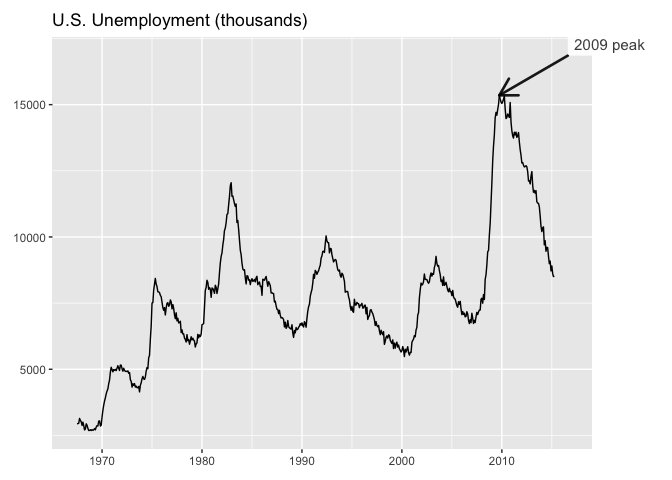
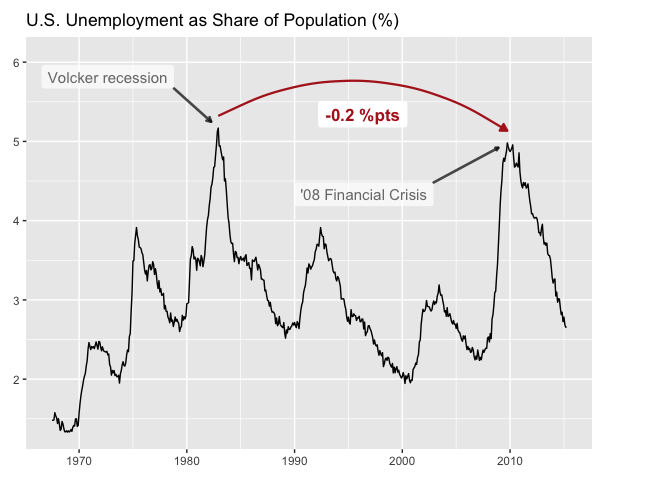
Deploying to gh-pages from @ lindsay-lintelman/ggmemo@5079489b1ca2f44ab56582e028c6d05d17bd900f 🚀

diff --git a/index.html b/index.html
@@ -114,25 +114,78 @@
 <code class="sourceCode R"><span><span class="kw"><a href="https://rdrr.io/r/base/library.html" class="external-link">library</a></span><span class="op">(</span><span class="va"><a href="https://ggplot2.tidyverse.org" class="external-link">ggplot2</a></span><span class="op">)</span></span>
 <span><span class="kw"><a href="https://rdrr.io/r/base/library.html" class="external-link">library</a></span><span class="op">(</span><span class="va"><a href="https://lindsay-lintelman.github.io/ggmemo/">ggmemo</a></span><span class="op">)</span></span>
 <span></span>
-<span><span class="fu"><a href="https://ggplot2.tidyverse.org/reference/ggplot.html" class="external-link">ggplot</a></span><span class="op">(</span><span class="va">economics</span>, <span class="fu"><a href="https://ggplot2.tidyverse.org/reference/aes.html" class="external-link">aes</a></span><span class="op">(</span>x <span class="op">=</span> <span class="va">date</span>, y <span class="op">=</span> <span class="va">unemploy</span><span class="op">)</span><span class="op">)</span> <span class="op">+</span></span>
+<span><span class="va">econ</span> <span class="op">&lt;-</span> <span class="va">economics</span></span>
+<span><span class="va">econ</span><span class="op">$</span><span class="va">unemp_rate</span> <span class="op">&lt;-</span> <span class="va">econ</span><span class="op">$</span><span class="va">unemploy</span> <span class="op">/</span> <span class="va">econ</span><span class="op">$</span><span class="va">pop</span> <span class="op">*</span> <span class="fl">100</span></span>
+<span></span>
+<span><span class="fu"><a href="https://ggplot2.tidyverse.org/reference/ggplot.html" class="external-link">ggplot</a></span><span class="op">(</span><span class="va">econ</span>, <span class="fu"><a href="https://ggplot2.tidyverse.org/reference/aes.html" class="external-link">aes</a></span><span class="op">(</span>x <span class="op">=</span> <span class="va">date</span>, y <span class="op">=</span> <span class="va">unemp_rate</span><span class="op">)</span><span class="op">)</span> <span class="op">+</span></span>
 <span>  <span class="fu"><a href="https://ggplot2.tidyverse.org/reference/geom_path.html" class="external-link">geom_line</a></span><span class="op">(</span><span class="op">)</span> <span class="op">+</span></span>
 <span>  <span class="fu"><a href="reference/annotate_callout.html">annotate_callout</a></span><span class="op">(</span></span>
-<span>    <span class="va">economics</span>,</span>
-<span>    where <span class="op">=</span> <span class="va">date</span> <span class="op">==</span> <span class="fu"><a href="https://rdrr.io/r/base/as.Date.html" class="external-link">as.Date</a></span><span class="op">(</span><span class="st">"2009-10-01"</span><span class="op">)</span>,</span>
-<span>    label <span class="op">=</span> <span class="st">"2009 peak"</span>,</span>
-<span>    position <span class="op">=</span> <span class="st">"top-left"</span>,</span>
-<span>    nudge <span class="op">=</span> <span class="fu"><a href="https://rdrr.io/r/base/c.html" class="external-link">c</a></span><span class="op">(</span><span class="op">-</span><span class="fl">2500</span>, <span class="fl">1500</span><span class="op">)</span></span>
+<span>    <span class="va">econ</span>,</span>
+<span>    where <span class="op">=</span> <span class="va">date</span> <span class="op">==</span> <span class="fu"><a href="https://rdrr.io/r/base/as.Date.html" class="external-link">as.Date</a></span><span class="op">(</span><span class="st">"1982-12-01"</span><span class="op">)</span>,</span>
+<span>    label <span class="op">=</span> <span class="st">"Volcker recession"</span>,</span>
+<span>    position <span class="op">=</span> <span class="st">"top-right"</span>,</span>
+<span>    nudge <span class="op">=</span> <span class="fu"><a href="https://rdrr.io/r/base/c.html" class="external-link">c</a></span><span class="op">(</span><span class="op">-</span><span class="fl">1500</span>, <span class="fl">0.5</span><span class="op">)</span>,</span>
+<span>    arrow_size <span class="op">=</span> <span class="fl">.05</span>,</span>
+<span>    point.padding <span class="op">=</span> <span class="fl">2</span>,</span>
+<span>    alpha <span class="op">=</span> <span class="fl">.7</span></span>
 <span>  <span class="op">)</span> <span class="op">+</span></span>
-<span>  <span class="fu"><a href="https://ggplot2.tidyverse.org/reference/coord_cartesian.html" class="external-link">coord_cartesian</a></span><span class="op">(</span>clip <span class="op">=</span> <span class="st">"off"</span><span class="op">)</span> <span class="op">+</span></span>
-<span>  <span class="fu"><a href="https://ggplot2.tidyverse.org/reference/labs.html" class="external-link">labs</a></span><span class="op">(</span>title <span class="op">=</span> <span class="st">"U.S. Unemployment (thousands)"</span>, x <span class="op">=</span> <span class="cn">NULL</span>, y <span class="op">=</span> <span class="cn">NULL</span><span class="op">)</span> <span class="op">+</span></span>
+<span>  <span class="fu"><a href="reference/annotate_callout.html">annotate_callout</a></span><span class="op">(</span></span>
+<span>    <span class="va">econ</span>,</span>
+<span>    where <span class="op">=</span> <span class="va">date</span> <span class="op">==</span> <span class="fu"><a href="https://rdrr.io/r/base/as.Date.html" class="external-link">as.Date</a></span><span class="op">(</span><span class="st">"2009-10-01"</span><span class="op">)</span>,</span>
+<span>    label <span class="op">=</span> <span class="st">"'08 Financial Crisis"</span>,</span>
+<span>    position <span class="op">=</span> <span class="st">"bottom-right"</span>,</span>
+<span>    nudge <span class="op">=</span> <span class="fu"><a href="https://rdrr.io/r/base/c.html" class="external-link">c</a></span><span class="op">(</span><span class="op">-</span><span class="fl">2500</span>, <span class="fl">0.5</span><span class="op">)</span>,</span>
+<span>    arrow_size <span class="op">=</span> <span class="fl">.03</span>,</span>
+<span>    point.padding <span class="op">=</span> <span class="fl">2</span>,</span>
+<span>    alpha <span class="op">=</span> <span class="fl">.7</span></span>
+<span>  <span class="op">)</span> <span class="op">+</span></span>
+<span>  <span class="fu"><a href="reference/annotate_change.html">annotate_change</a></span><span class="op">(</span></span>
+<span>    <span class="va">econ</span>,</span>
+<span>    from <span class="op">=</span> <span class="va">date</span> <span class="op">==</span> <span class="fu"><a href="https://rdrr.io/r/base/as.Date.html" class="external-link">as.Date</a></span><span class="op">(</span><span class="st">"1982-12-01"</span><span class="op">)</span>,</span>
+<span>    to <span class="op">=</span> <span class="va">date</span> <span class="op">==</span> <span class="fu"><a href="https://rdrr.io/r/base/as.Date.html" class="external-link">as.Date</a></span><span class="op">(</span><span class="st">"2009-10-01"</span><span class="op">)</span>,</span>
+<span>    value <span class="op">=</span> <span class="va">unemp_rate</span>,</span>
+<span>    arrow_size <span class="op">=</span> <span class="fl">.08</span>,</span>
+<span>    arrow_type <span class="op">=</span> <span class="st">"closed"</span>,</span>
+<span>    curvature <span class="op">=</span> <span class="op">-</span><span class="fl">.3</span>,</span>
+<span>    format <span class="op">=</span> <span class="st">"points"</span></span>
+<span>  <span class="op">)</span> <span class="op">+</span></span>
+<span>  <span class="fu"><a href="https://ggplot2.tidyverse.org/reference/scale_continuous.html" class="external-link">scale_y_continuous</a></span><span class="op">(</span>expand <span class="op">=</span> <span class="fu"><a href="https://ggplot2.tidyverse.org/reference/expansion.html" class="external-link">expansion</a></span><span class="op">(</span>mult <span class="op">=</span> <span class="fu"><a href="https://rdrr.io/r/base/c.html" class="external-link">c</a></span><span class="op">(</span><span class="fl">0.05</span>, <span class="fl">0.15</span><span class="op">)</span><span class="op">)</span><span class="op">)</span> <span class="op">+</span></span>
+<span>  <span class="fu"><a href="https://ggplot2.tidyverse.org/reference/labs.html" class="external-link">labs</a></span><span class="op">(</span>title <span class="op">=</span> <span class="st">"U.S. Unemployment as Share of Population (%)"</span>,</span>
+<span>       x <span class="op">=</span> <span class="cn">NULL</span>, y <span class="op">=</span> <span class="cn">NULL</span><span class="op">)</span> <span class="op">+</span></span>
 <span>  <span class="fu"><a href="https://ggplot2.tidyverse.org/reference/theme.html" class="external-link">theme</a></span><span class="op">(</span>plot.margin <span class="op">=</span> <span class="fu"><a href="https://ggplot2.tidyverse.org/reference/element.html" class="external-link">margin</a></span><span class="op">(</span><span class="fl">10</span>, <span class="fl">60</span>, <span class="fl">10</span>, <span class="fl">10</span><span class="op">)</span><span class="op">)</span></span></code></pre></div>
 <p><img src="reference/figures/README-callout-1.png" alt="" width="100%"></p>
 </div>
 <div class="section level3">
-<h3 id="change-annotation">Change annotation<a class="anchor" aria-label="anchor" href="#change-annotation"></a>
+<h3 id="time-series-change">Time series change<a class="anchor" aria-label="anchor" href="#time-series-change"></a>
 </h3>
 <p>Show the delta between two data points with a color-coded arrow:</p>
 <div class="sourceCode" id="cb3"><pre class="downlit sourceCode r">
+<code class="sourceCode R"><span><span class="va">econ</span> <span class="op">&lt;-</span> <span class="va">economics</span></span>
+<span><span class="va">econ</span><span class="op">$</span><span class="va">unemp_rate</span> <span class="op">&lt;-</span> <span class="va">econ</span><span class="op">$</span><span class="va">unemploy</span> <span class="op">/</span> <span class="va">econ</span><span class="op">$</span><span class="va">pop</span> <span class="op">*</span> <span class="fl">100</span></span>
+<span></span>
+<span><span class="fu"><a href="https://ggplot2.tidyverse.org/reference/ggplot.html" class="external-link">ggplot</a></span><span class="op">(</span><span class="va">econ</span>, <span class="fu"><a href="https://ggplot2.tidyverse.org/reference/aes.html" class="external-link">aes</a></span><span class="op">(</span>x <span class="op">=</span> <span class="va">date</span>, y <span class="op">=</span> <span class="va">unemp_rate</span><span class="op">)</span><span class="op">)</span> <span class="op">+</span></span>
+<span>  <span class="fu"><a href="https://ggplot2.tidyverse.org/reference/geom_path.html" class="external-link">geom_line</a></span><span class="op">(</span>colour <span class="op">=</span> <span class="st">"grey40"</span><span class="op">)</span> <span class="op">+</span></span>
+<span>  <span class="fu"><a href="reference/annotate_change.html">annotate_change</a></span><span class="op">(</span></span>
+<span>    <span class="va">econ</span>,</span>
+<span>    from <span class="op">=</span> <span class="va">date</span> <span class="op">==</span> <span class="fu"><a href="https://rdrr.io/r/base/as.Date.html" class="external-link">as.Date</a></span><span class="op">(</span><span class="st">"2009-10-01"</span><span class="op">)</span>,</span>
+<span>    to <span class="op">=</span> <span class="va">date</span> <span class="op">==</span> <span class="fu"><a href="https://rdrr.io/r/base/as.Date.html" class="external-link">as.Date</a></span><span class="op">(</span><span class="st">"2015-03-01"</span><span class="op">)</span>,</span>
+<span>    value <span class="op">=</span> <span class="va">unemp_rate</span>,</span>
+<span>    arrow_pad <span class="op">=</span> <span class="fl">0.05</span>,</span>
+<span>    curvature <span class="op">=</span> <span class="op">-</span><span class="fl">.35</span>,</span>
+<span>    arrow_size <span class="op">=</span> <span class="fl">0.08</span>,</span>
+<span>    x <span class="op">=</span> <span class="fu"><a href="https://rdrr.io/r/base/as.Date.html" class="external-link">as.Date</a></span><span class="op">(</span><span class="st">"2015-01-01"</span><span class="op">)</span>,</span>
+<span>    y <span class="op">=</span> <span class="fl">4.95</span>,</span>
+<span>    fill <span class="op">=</span> <span class="cn">NA</span></span>
+<span>  <span class="op">)</span> <span class="op">+</span></span>
+<span>  <span class="fu"><a href="https://ggplot2.tidyverse.org/reference/labs.html" class="external-link">labs</a></span><span class="op">(</span>title <span class="op">=</span> <span class="st">"U.S. Unemployment as Share of Population (%)"</span>,</span>
+<span>       x <span class="op">=</span> <span class="cn">NULL</span>, y <span class="op">=</span> <span class="cn">NULL</span><span class="op">)</span> <span class="op">+</span></span>
+<span>  <span class="fu"><a href="https://ggplot2.tidyverse.org/reference/ggtheme.html" class="external-link">theme_minimal</a></span><span class="op">(</span><span class="op">)</span></span></code></pre></div>
+<p><img src="reference/figures/README-time-series-change-1.png" alt="" width="100%"></p>
+</div>
+<div class="section level3">
+<h3 id="change-annotation">Change annotation<a class="anchor" aria-label="anchor" href="#change-annotation"></a>
+</h3>
+<div class="sourceCode" id="cb4"><pre class="downlit sourceCode r">
 <code class="sourceCode R"><span><span class="va">quarterly_revenue</span> <span class="op">&lt;-</span> <span class="fu"><a href="https://rdrr.io/r/base/data.frame.html" class="external-link">data.frame</a></span><span class="op">(</span></span>
 <span>  quarter <span class="op">=</span> <span class="fu"><a href="https://rdrr.io/r/base/factor.html" class="external-link">factor</a></span><span class="op">(</span><span class="fu"><a href="https://rdrr.io/r/base/c.html" class="external-link">c</a></span><span class="op">(</span><span class="st">"Q1"</span>, <span class="st">"Q2"</span>, <span class="st">"Q3"</span>, <span class="st">"Q4"</span><span class="op">)</span>,</span>
 <span>                   levels <span class="op">=</span> <span class="fu"><a href="https://rdrr.io/r/base/c.html" class="external-link">c</a></span><span class="op">(</span><span class="st">"Q1"</span>, <span class="st">"Q2"</span>, <span class="st">"Q3"</span>, <span class="st">"Q4"</span><span class="op">)</span><span class="op">)</span>,</span>
@@ -140,35 +193,22 @@
 <span><span class="op">)</span></span>
 <span></span>
 <span><span class="fu"><a href="https://ggplot2.tidyverse.org/reference/ggplot.html" class="external-link">ggplot</a></span><span class="op">(</span><span class="va">quarterly_revenue</span>, <span class="fu"><a href="https://ggplot2.tidyverse.org/reference/aes.html" class="external-link">aes</a></span><span class="op">(</span>x <span class="op">=</span> <span class="va">quarter</span>, y <span class="op">=</span> <span class="va">revenue</span><span class="op">)</span><span class="op">)</span> <span class="op">+</span></span>
-<span>  <span class="fu"><a href="https://ggplot2.tidyverse.org/reference/geom_bar.html" class="external-link">geom_col</a></span><span class="op">(</span>fill <span class="op">=</span> <span class="st">"grey70"</span>, width <span class="op">=</span> <span class="fl">0.6</span><span class="op">)</span> <span class="op">+</span></span>
+<span>  <span class="fu"><a href="https://ggplot2.tidyverse.org/reference/geom_bar.html" class="external-link">geom_col</a></span><span class="op">(</span>fill <span class="op">=</span> <span class="st">"steelblue"</span>, width <span class="op">=</span> <span class="fl">0.6</span><span class="op">)</span> <span class="op">+</span></span>
 <span>  <span class="fu"><a href="reference/annotate_change.html">annotate_change</a></span><span class="op">(</span></span>
 <span>    <span class="va">quarterly_revenue</span>,</span>
-<span>    from <span class="op">=</span> <span class="va">quarter</span> <span class="op">==</span> <span class="st">"Q1"</span>,</span>
+<span>    from <span class="op">=</span> <span class="va">quarter</span> <span class="op">==</span> <span class="st">"Q3"</span>,</span>
 <span>    to <span class="op">=</span> <span class="va">quarter</span> <span class="op">==</span> <span class="st">"Q4"</span>,</span>
-<span>    value <span class="op">=</span> <span class="va">revenue</span></span>
+<span>    value <span class="op">=</span> <span class="va">revenue</span>,</span>
+<span>    arrow_pad <span class="op">=</span> <span class="fl">.2</span>,</span>
+<span>    curvature <span class="op">=</span> <span class="op">-</span><span class="fl">.3</span>,</span>
+<span>    arrow_type <span class="op">=</span> <span class="st">"closed"</span>,</span>
+<span>    y <span class="op">=</span> <span class="fl">180</span>,</span>
+<span>    fill <span class="op">=</span> <span class="cn">NA</span></span>
 <span>  <span class="op">)</span> <span class="op">+</span></span>
 <span>  <span class="fu"><a href="https://ggplot2.tidyverse.org/reference/scale_continuous.html" class="external-link">scale_y_continuous</a></span><span class="op">(</span>expand <span class="op">=</span> <span class="fu"><a href="https://ggplot2.tidyverse.org/reference/expansion.html" class="external-link">expansion</a></span><span class="op">(</span>mult <span class="op">=</span> <span class="fu"><a href="https://rdrr.io/r/base/c.html" class="external-link">c</a></span><span class="op">(</span><span class="fl">0</span>, <span class="fl">0.4</span><span class="op">)</span><span class="op">)</span><span class="op">)</span> <span class="op">+</span></span>
-<span>  <span class="fu"><a href="https://ggplot2.tidyverse.org/reference/labs.html" class="external-link">labs</a></span><span class="op">(</span>title <span class="op">=</span> <span class="st">"Quarterly Revenue ($K)"</span>, x <span class="op">=</span> <span class="cn">NULL</span>, y <span class="op">=</span> <span class="cn">NULL</span><span class="op">)</span></span></code></pre></div>
+<span>  <span class="fu"><a href="https://ggplot2.tidyverse.org/reference/labs.html" class="external-link">labs</a></span><span class="op">(</span>title <span class="op">=</span> <span class="st">"Quarterly Revenue ($K)"</span>, x <span class="op">=</span> <span class="cn">NULL</span>, y <span class="op">=</span> <span class="cn">NULL</span><span class="op">)</span> <span class="op">+</span></span>
+<span>  <span class="fu"><a href="https://ggplot2.tidyverse.org/reference/ggtheme.html" class="external-link">theme_minimal</a></span><span class="op">(</span>base_size <span class="op">=</span> <span class="fl">13</span><span class="op">)</span></span></code></pre></div>
 <p><img src="reference/figures/README-change-1.png" alt="" width="100%"></p>
-</div>
-<div class="section level3">
-<h3 id="time-series-callout">Time series callout<a class="anchor" aria-label="anchor" href="#time-series-callout"></a>
-</h3>
-<div class="sourceCode" id="cb4"><pre class="downlit sourceCode r">
-<code class="sourceCode R"><span><span class="fu"><a href="https://ggplot2.tidyverse.org/reference/ggplot.html" class="external-link">ggplot</a></span><span class="op">(</span><span class="va">economics</span>, <span class="fu"><a href="https://ggplot2.tidyverse.org/reference/aes.html" class="external-link">aes</a></span><span class="op">(</span>x <span class="op">=</span> <span class="va">date</span>, y <span class="op">=</span> <span class="va">unemploy</span><span class="op">)</span><span class="op">)</span> <span class="op">+</span></span>
-<span>  <span class="fu"><a href="https://ggplot2.tidyverse.org/reference/geom_path.html" class="external-link">geom_line</a></span><span class="op">(</span>colour <span class="op">=</span> <span class="st">"grey40"</span><span class="op">)</span> <span class="op">+</span></span>
-<span>  <span class="fu"><a href="reference/annotate_callout.html">annotate_callout</a></span><span class="op">(</span></span>
-<span>    <span class="va">economics</span>,</span>
-<span>    where <span class="op">=</span> <span class="va">date</span> <span class="op">==</span> <span class="fu"><a href="https://rdrr.io/r/base/as.Date.html" class="external-link">as.Date</a></span><span class="op">(</span><span class="st">"2009-10-01"</span><span class="op">)</span>,</span>
-<span>    label <span class="op">=</span> <span class="st">"2009 peak"</span>,</span>
-<span>    position <span class="op">=</span> <span class="st">"top-left"</span>,</span>
-<span>    nudge <span class="op">=</span> <span class="fu"><a href="https://rdrr.io/r/base/c.html" class="external-link">c</a></span><span class="op">(</span><span class="op">-</span><span class="fl">2500</span>, <span class="fl">1500</span><span class="op">)</span></span>
-<span>  <span class="op">)</span> <span class="op">+</span></span>
-<span>  <span class="fu"><a href="https://ggplot2.tidyverse.org/reference/coord_cartesian.html" class="external-link">coord_cartesian</a></span><span class="op">(</span>clip <span class="op">=</span> <span class="st">"off"</span><span class="op">)</span> <span class="op">+</span></span>
-<span>  <span class="fu"><a href="https://ggplot2.tidyverse.org/reference/labs.html" class="external-link">labs</a></span><span class="op">(</span>title <span class="op">=</span> <span class="st">"U.S. Unemployment (thousands)"</span>, x <span class="op">=</span> <span class="cn">NULL</span>, y <span class="op">=</span> <span class="cn">NULL</span><span class="op">)</span> <span class="op">+</span></span>
-<span>  <span class="fu"><a href="https://ggplot2.tidyverse.org/reference/ggtheme.html" class="external-link">theme_minimal</a></span><span class="op">(</span><span class="op">)</span> <span class="op">+</span></span>
-<span>  <span class="fu"><a href="https://ggplot2.tidyverse.org/reference/theme.html" class="external-link">theme</a></span><span class="op">(</span>plot.margin <span class="op">=</span> <span class="fu"><a href="https://ggplot2.tidyverse.org/reference/element.html" class="external-link">margin</a></span><span class="op">(</span><span class="fl">10</span>, <span class="fl">60</span>, <span class="fl">10</span>, <span class="fl">10</span><span class="op">)</span><span class="op">)</span></span></code></pre></div>
-<p><img src="reference/figures/README-time-series-1.png" alt="" width="100%"></p>
 </div>
 </div>
 <div class="section level2">

diff --git a/index.md b/index.md
@@ -39,25 +39,80 @@ Point at a specific data row with an arrow and label:
 library(ggplot2)
 library(ggmemo)
 
-ggplot(economics, aes(x = date, y = unemploy)) +
+econ <- economics
+econ$unemp_rate <- econ$unemploy / econ$pop * 100
+
+ggplot(econ, aes(x = date, y = unemp_rate)) +
   geom_line() +
   annotate_callout(
-    economics,
-    where = date == as.Date("2009-10-01"),
-    label = "2009 peak",
-    position = "top-left",
-    nudge = c(-2500, 1500)
+    econ,
+    where = date == as.Date("1982-12-01"),
+    label = "Volcker recession",
+    position = "top-right",
+    nudge = c(-1500, 0.5),
+    arrow_size = .05,
+    point.padding = 2,
+    alpha = .7
   ) +
-  coord_cartesian(clip = "off") +
-  labs(title = "U.S. Unemployment (thousands)", x = NULL, y = NULL) +
+  annotate_callout(
+    econ,
+    where = date == as.Date("2009-10-01"),
+    label = "'08 Financial Crisis",
+    position = "bottom-right",
+    nudge = c(-2500, 0.5),
+    arrow_size = .03,
+    point.padding = 2,
+    alpha = .7
+  ) +
+  annotate_change(
+    econ,
+    from = date == as.Date("1982-12-01"),
+    to = date == as.Date("2009-10-01"),
+    value = unemp_rate,
+    arrow_size = .08,
+    arrow_type = "closed",
+    curvature = -.3,
+    format = "points"
+  ) +
+  scale_y_continuous(expand = expansion(mult = c(0.05, 0.15))) +
+  labs(title = "U.S. Unemployment as Share of Population (%)",
+       x = NULL, y = NULL) +
   theme(plot.margin = margin(10, 60, 10, 10))
 ```
 
 ![](reference/figures/README-callout-1.png)
 
-### Change annotation
+### Time series change
 
 Show the delta between two data points with a color-coded arrow:
+
+``` r
+
+econ <- economics
+econ$unemp_rate <- econ$unemploy / econ$pop * 100
+
+ggplot(econ, aes(x = date, y = unemp_rate)) +
+  geom_line(colour = "grey40") +
+  annotate_change(
+    econ,
+    from = date == as.Date("2009-10-01"),
+    to = date == as.Date("2015-03-01"),
+    value = unemp_rate,
+    arrow_pad = 0.05,
+    curvature = -.35,
+    arrow_size = 0.08,
+    x = as.Date("2015-01-01"),
+    y = 4.95,
+    fill = NA
+  ) +
+  labs(title = "U.S. Unemployment as Share of Population (%)",
+       x = NULL, y = NULL) +
+  theme_minimal()
+```
+
+![](reference/figures/README-time-series-change-1.png)
+
+### Change annotation
 
 ``` r
 
@@ -68,39 +123,24 @@ quarterly_revenue <- data.frame(
 )
 
 ggplot(quarterly_revenue, aes(x = quarter, y = revenue)) +
-  geom_col(fill = "grey70", width = 0.6) +
+  geom_col(fill = "steelblue", width = 0.6) +
   annotate_change(
     quarterly_revenue,
-    from = quarter == "Q1",
+    from = quarter == "Q3",
     to = quarter == "Q4",
-    value = revenue
+    value = revenue,
+    arrow_pad = .2,
+    curvature = -.3,
+    arrow_type = "closed",
+    y = 180,
+    fill = NA
   ) +
   scale_y_continuous(expand = expansion(mult = c(0, 0.4))) +
-  labs(title = "Quarterly Revenue ($K)", x = NULL, y = NULL)
+  labs(title = "Quarterly Revenue ($K)", x = NULL, y = NULL) +
+  theme_minimal(base_size = 13)
 ```
 
 ![](reference/figures/README-change-1.png)
-
-### Time series callout
-
-``` r
-
-ggplot(economics, aes(x = date, y = unemploy)) +
-  geom_line(colour = "grey40") +
-  annotate_callout(
-    economics,
-    where = date == as.Date("2009-10-01"),
-    label = "2009 peak",
-    position = "top-left",
-    nudge = c(-2500, 1500)
-  ) +
-  coord_cartesian(clip = "off") +
-  labs(title = "U.S. Unemployment (thousands)", x = NULL, y = NULL) +
-  theme_minimal() +
-  theme(plot.margin = margin(10, 60, 10, 10))
-```
-
-![](reference/figures/README-time-series-1.png)
 
 ## Learning more
 